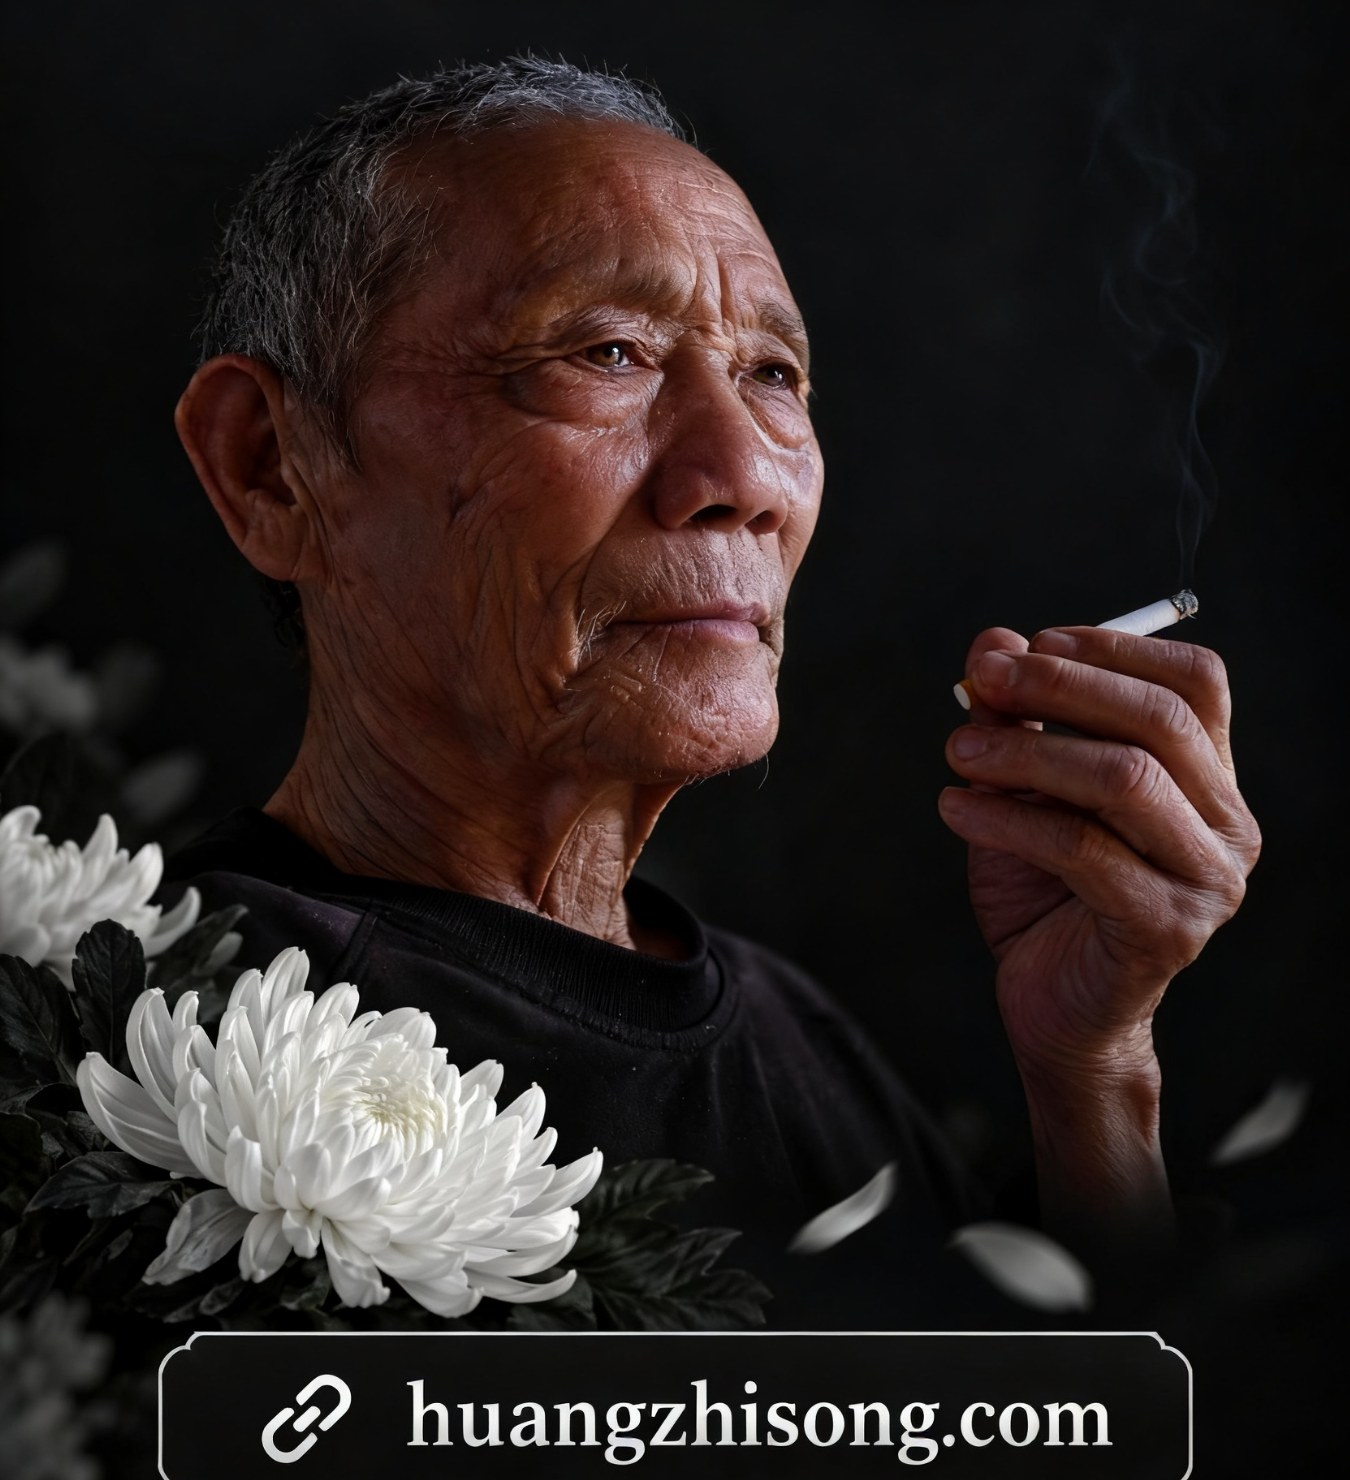
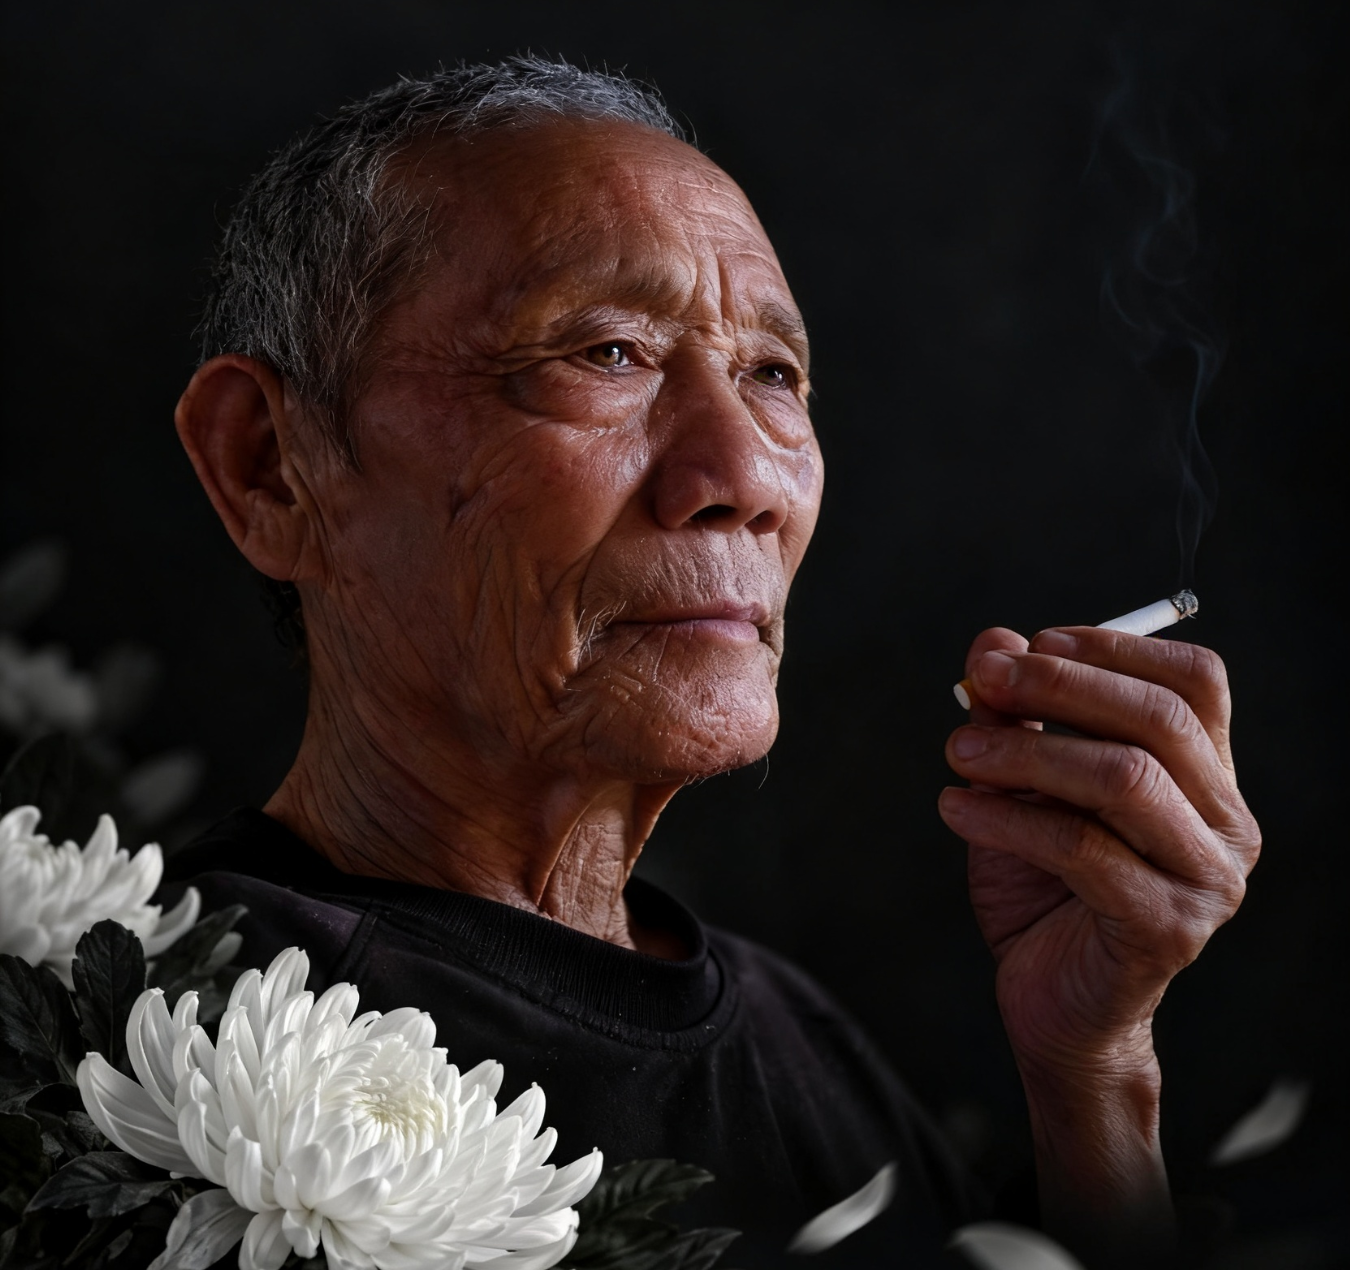
fix(huang-archive): real 淬 glyph + crop chrome from desktop hero
临海隶书 source maps 淬 to an empty outline; inject Noto Serif SC
ink into the subset. Recrop login-bg-desktop above baked URL chrome.

diff --git a/huang-archive/frontend/index.html b/huang-archive/frontend/index.html
@@ -8,7 +8,7 @@
     <link rel="preconnect" href="https://fonts.googleapis.com" />
     <link rel="preconnect" href="https://fonts.gstatic.com" crossorigin />
     <link href="https://fonts.googleapis.com/css2?family=Noto+Sans+SC:wght@400;500;700&family=Noto+Serif+SC:wght@500;700&display=swap" rel="stylesheet" />
-    <link rel="preload" href="/fonts/linhai-lishu.woff2" as="font" type="font/woff2" crossorigin />
+    <link rel="preload" href="/fonts/linhai-lishu.woff2?v=cui2" as="font" type="font/woff2" crossorigin />
   </head>
   <body class="bg-rice text-ink">
     <div id="app"></div>

diff --git a/huang-archive/frontend/src/views/LoginView.vue b/huang-archive/frontend/src/views/LoginView.vue
@@ -436,7 +436,7 @@ onMounted(async () => {
 .login-hero-photo--desktop {
   display: none;
   /* Detail-processed chrysanthemum portrait (near 4:5, contain — no stretch). */
-  background-image: url('/login-bg-desktop.png');
+  background-image: url('/login-bg-desktop.png?v=chrys2');
   background-size: contain;
   background-position: center center;
   background-repeat: no-repeat;

diff --git a/huang-archive/frontend/src/style.css b/huang-archive/frontend/src/style.css
@@ -4,7 +4,7 @@
 
 @font-face {
   font-family: "LinHai LiShu";
-  src: url("/fonts/linhai-lishu.woff2") format("woff2");
+  src: url("/fonts/linhai-lishu.woff2?v=cui2") format("woff2");
   font-weight: 400;
   font-style: normal;
   font-display: swap;
